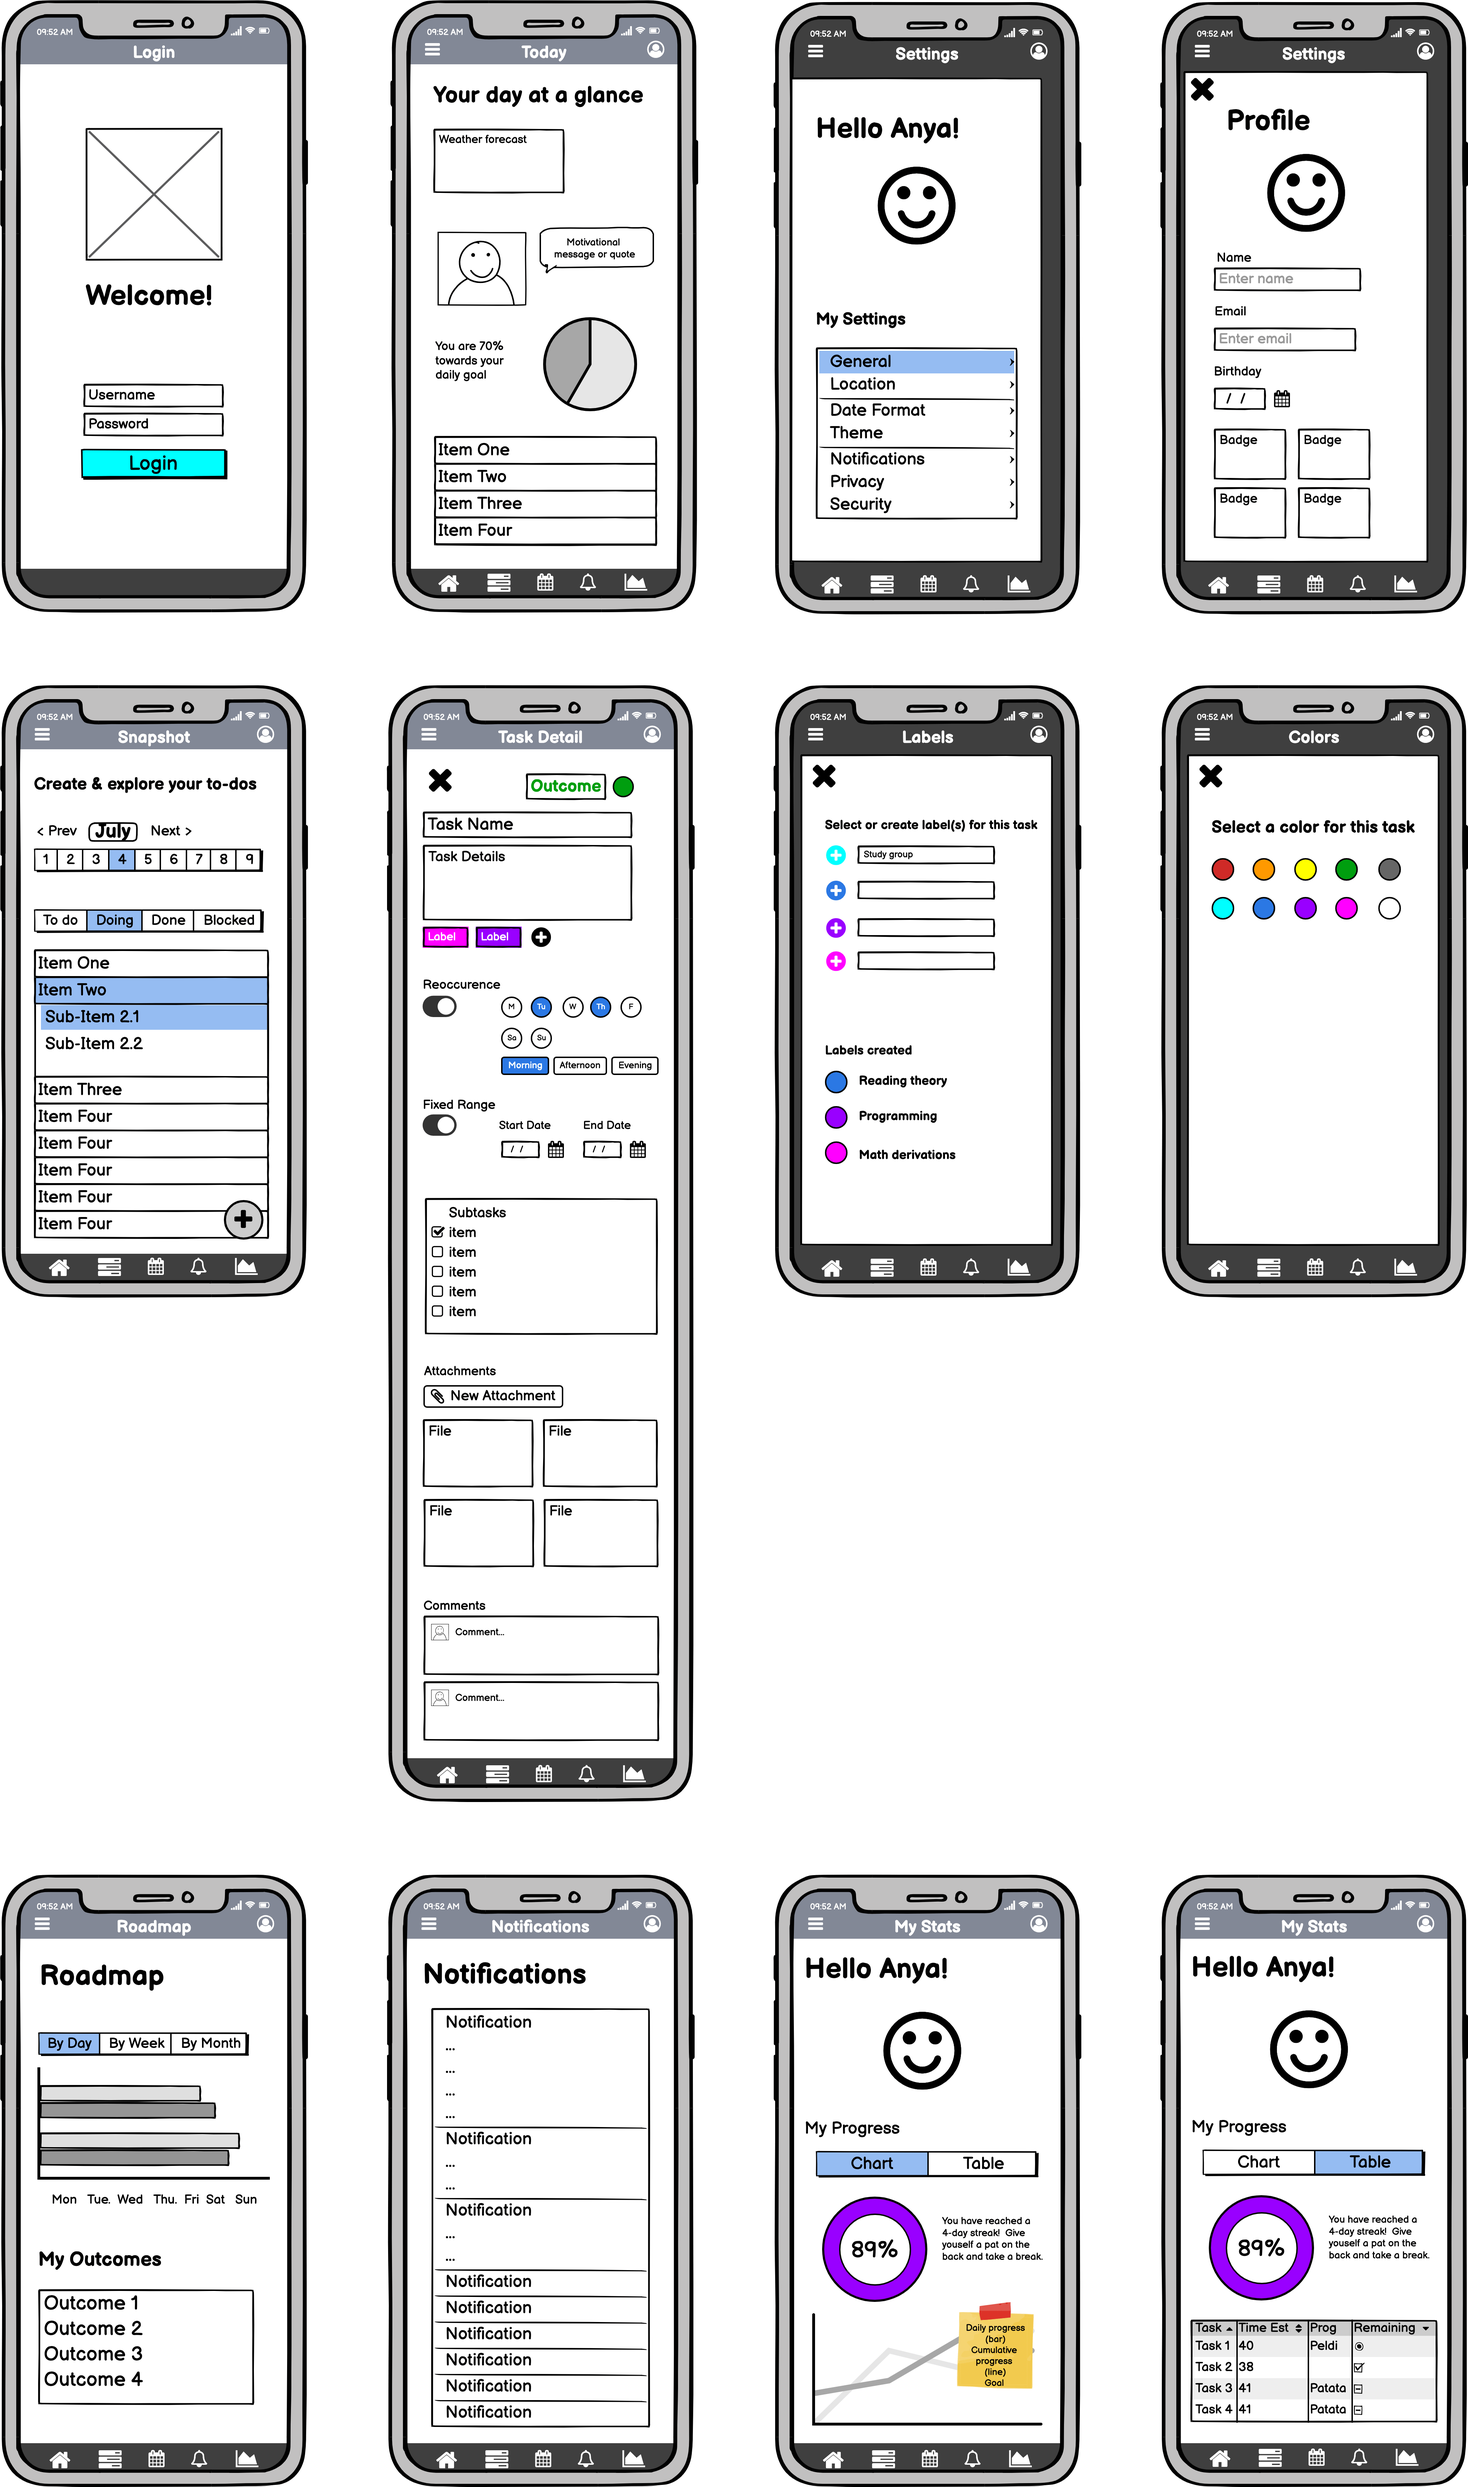
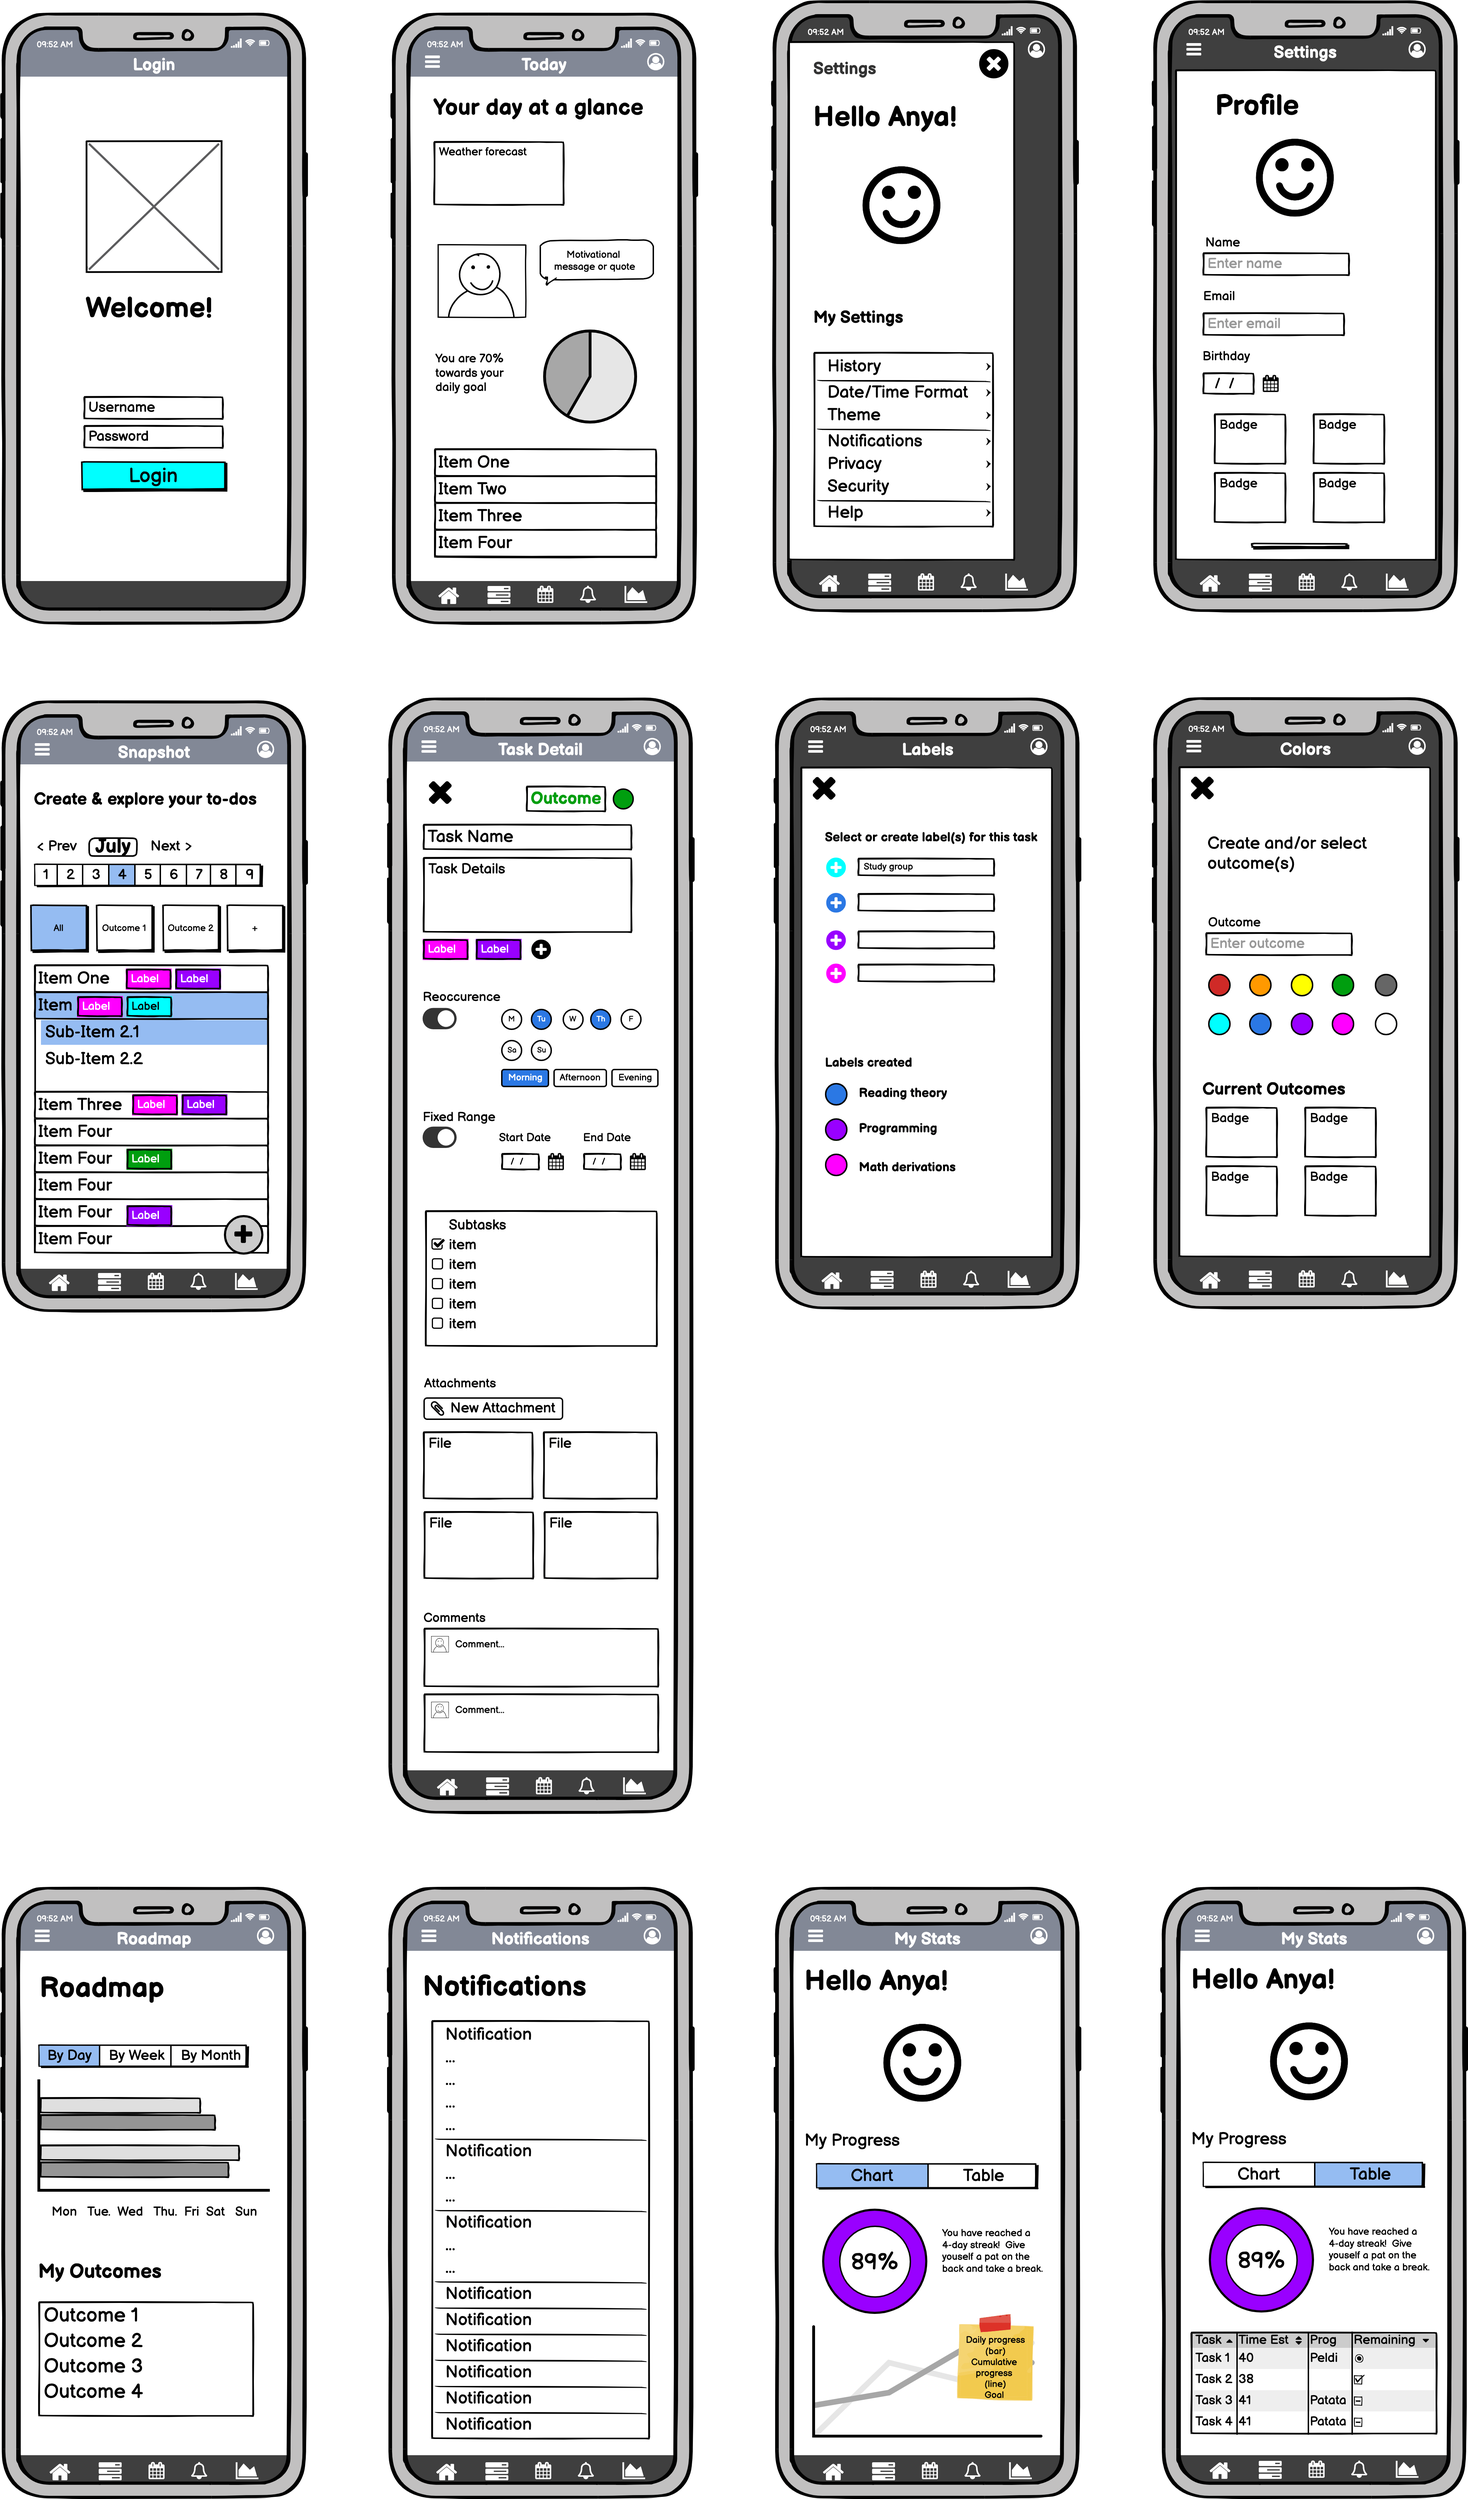
UI Productivity (improved)

diff --git a/cf_intro.html b/cf_intro.html
@@ -156,12 +156,17 @@
             <p>I used Balsamiq to design the low-fidelity digital wireframes and confirm the most basic flows.</p>
             <!-- <h3>First version</h3> -->
             <img class="image-100" src="img/ui-productivity/productivity-app-balsamiq-compressed.png"
-                alt="Digitized Low fidelity wireframes with grid">
+                alt="Digitized Low fidelity wireframes in Balsamiq">
             <h2>Low-Fidelity Wireframes with grid</h2>
+            <h3>Grid System</h3>
             <p>I used a 10-pt grid with 6 columns and 20pt margins. My reason for selecting 10 points is because it is
                 more efficient to work with figma. In figma
                 one can use the shift key to move an element 10pts at a time. </p>
-            <h3>Please stay tuned for more updates!</h3>
+            <img class="image-50" src="img/ui-productivity/grid-system.png" alt="Grid System"
+                style="margin-left: auto; margin-right: auto; display: block; padding-top: 5%;">
+            <h3>Gray Boxing</h3>
+            <img class="image-100" src="img/ui-productivity/wireframes-and-grid.png"
+                alt="Low fidelity wireframes in Figma">
 
         </main>
 
